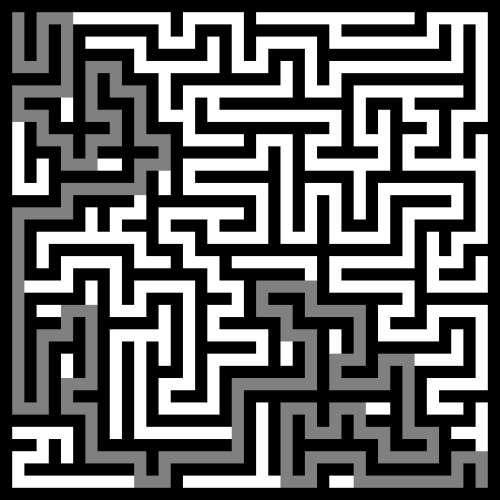
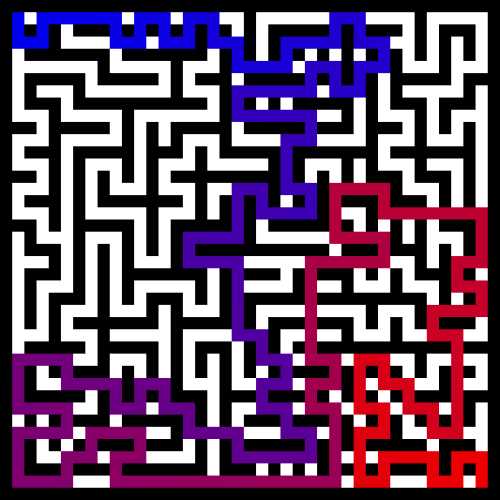
Added color to Path finding

diff --git a/src/solver/path.py b/src/solver/path.py
@@ -15,12 +15,18 @@ class Path:
             print(node)
 
     def save(self, base_path: str, save_to_path: str) -> None:
-        import numpy as np
         from PIL import Image
 
-        array = np.asarray(Image.open(base_path)).copy()
-        for node in self.path:
-            array[node.pos.x, node.pos.y] = 128
+        colors = []
+        for i in range(len(self.path)):
+            fract = i / len(self.path)
+            colors.append((int(fract * 240), 0, int((1 - fract) * 240)))
 
-        im = Image.fromarray(array)
-        im.save(save_to_path)
+        img = Image.open(base_path)
+        rgb_img = Image.new("RGBA", img.size)
+        rgb_img.paste(img)
+
+        for i, node in enumerate(self.path):
+            rgb_img.putpixel((node.pos.x, node.pos.y), colors[i])
+
+        rgb_img.save(save_to_path)
